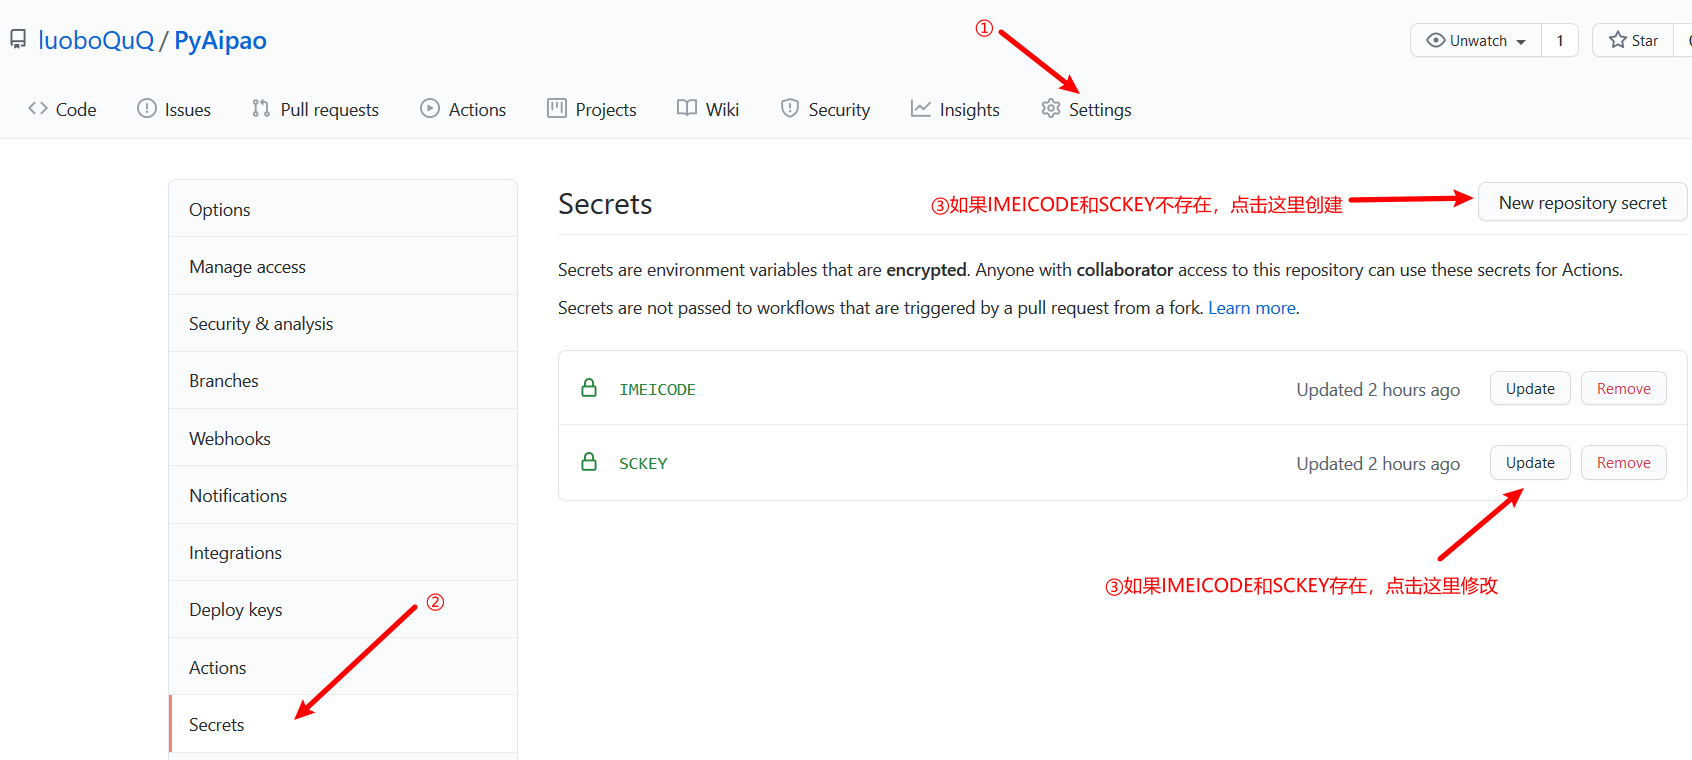
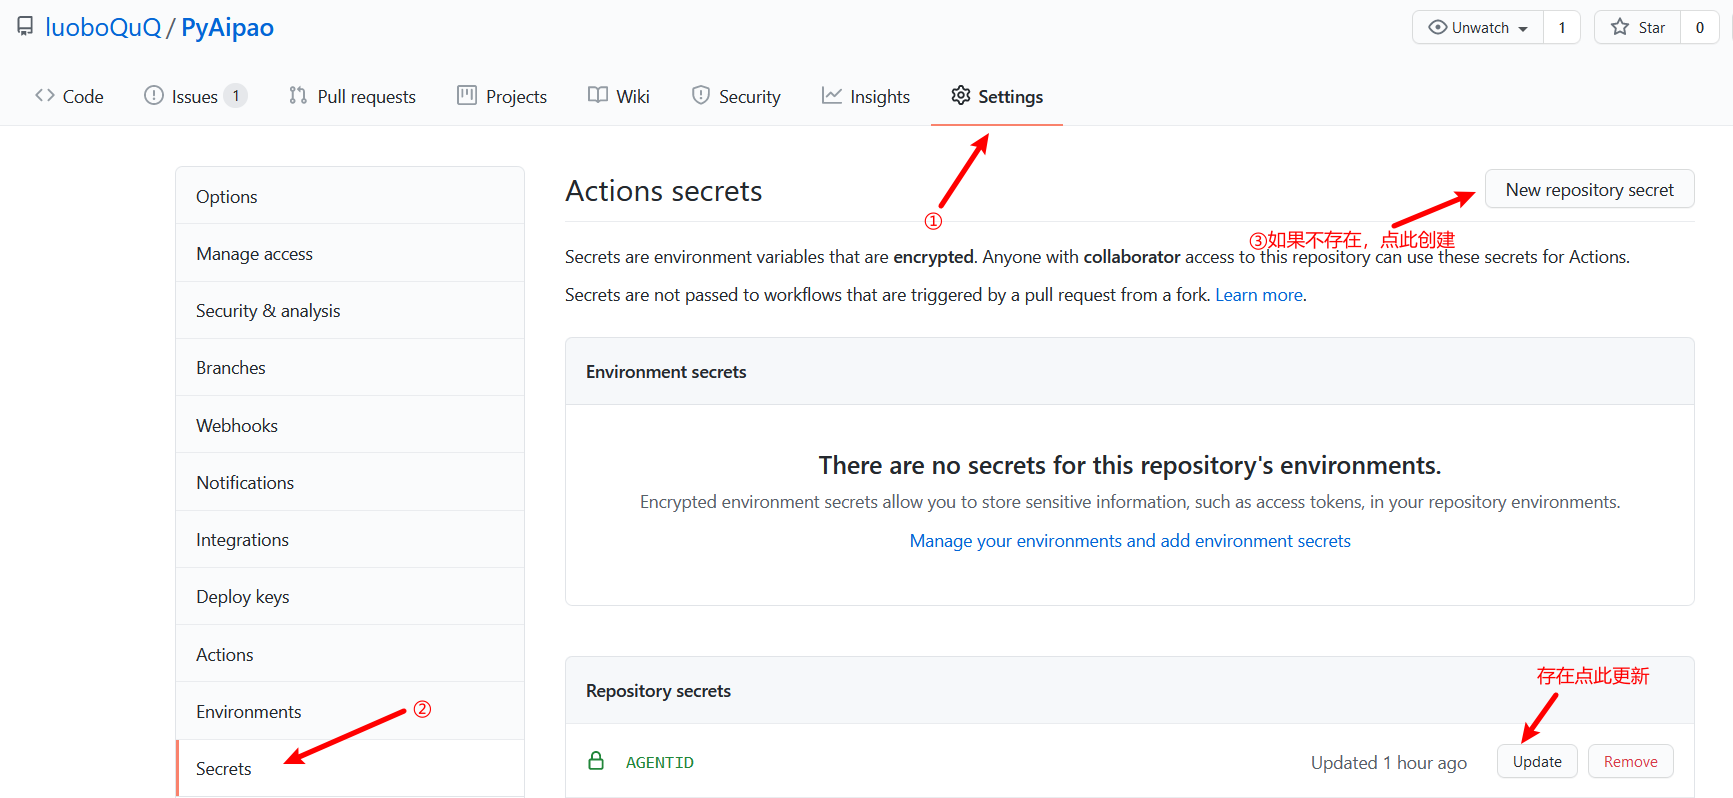
修复接口错误，更新README

diff --git a/PyAipao.py b/PyAipao.py
@@ -98,10 +98,12 @@ class Aipaoer(object):
         rsp = requests.get(url, headers=headers)
         try:
             if rsp.json()["Success"]:
+                web = "<a href=\"http://http://sportsapp.aipao.me/Manage/UserDomain_SNSP_Records.aspx/MyResutls?userId=" + \
+                    str(self.userId)+"\">点我查看跑步历史</a>"
                 fin = {'msg': 'success',
                        'end': "速度："+str(my_speed)+" 路程："+str(my_distance) +
                        " 用时："+str(my_costTime//60)+":" +
-                       str(my_costTime % 60)+" 步数："+str(my_step)
+                       str(my_costTime % 60)+" 步数："+str(my_step)+'\n'+web
                        }
                 return fin
         except KeyError:
@@ -131,7 +133,7 @@ def main():
     try:
         IMEICode = os.environ['IMEICODE']
     except KeyError:
-        print("未读取IMEICODE")
+        print("未读取到IMEICODE")
         exit(1)
 
     try:
@@ -165,6 +167,7 @@ def main():
             print("企业微信推送成功")
         else:
             print("企业微信推送失败")
+            exit(1)
 
     elif ZXC == 2:
         body = {
@@ -180,6 +183,10 @@ def main():
             print("微信推送成功")
         else:
             print("微信推送失败")
+            exit(1)
+
+    if "失败" in text:
+        exit(1)
 
 
 if __name__ == "__main__":

diff --git a/README.md b/README.md
@@ -22,7 +22,7 @@
 
 3.1基于Server酱的推送
 
-- 完成Server酱的注册和绑定 [点我直达](http://scf.ftqq.com)
+- 完成Server酱的注册和绑定 [点我直达](http://sct.ftqq.com)
 - 在 [SendKey](https://sct.ftqq.com/sendkey)这一页中找到SendKey并记录
 ![SendKey](IMAGE/SendKey.png)
 
@@ -38,14 +38,14 @@
 
 4.配置Github Actions
 
-- 打开仓库的`secrets`，在其中将IMEICode填入
+- 打开仓库的`secrets`，在其中建立`IMEICODE`并将IMEICode填入
   ![4.1](IMAGE/4.1.png)
 
-- （可选）使用Server酱推送，需要建立SCKEY并填入SendKey
+- （可选）使用Server酱推送，需要建立`SCKEY`并填入SendKey
 
-- （可选）使用企业微信应用消息推送，需要建立CORPID--填入企业ID，AGENTID--填入应用ID，SECRET--填入应用Secret
+- （可选）使用企业微信应用消息推送，需要建立`CORPID`--填入企业ID，`AGENTID`--填入应用ID，`SECRET`--填入应用Secret
 
-- 打开`autorun.yml`，将时间改为你想让它每天按时跑的时间，默认为每天上午9点；同时修改推送方式，默认不推送。
+- 打开`Code`-`.github/workflows`-`autorun.yml`，点击右上角的铅笔图标进行编辑，将时间改为你想让它每天按时跑的时间，默认为每天上午9点；同时修改推送方式，默认不推送。
 
  ![4.2](IMAGE/4.2.png)
 
@@ -54,6 +54,8 @@
 - 启用Github Actions
 
   ![workflow](IMAGE/workflow.png)
+
+![4.3](IMAGE/4.3.png)
 
 到这步已经配置完成了，它每天就会自己跑了。
 
